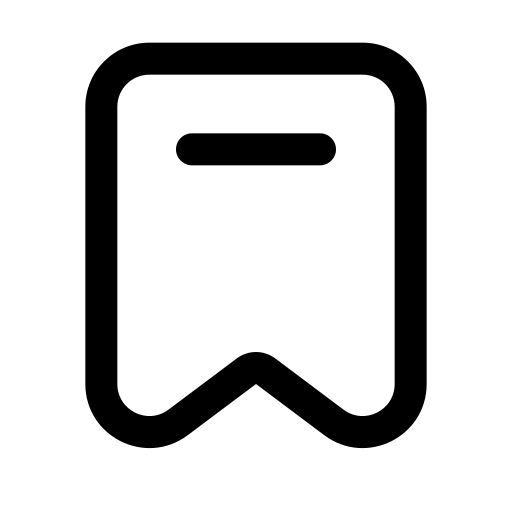
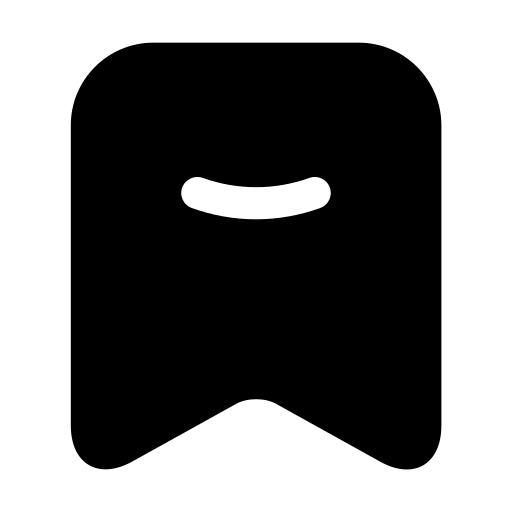
bug fix and minor changes

diff --git a/lib/presentation/widgets/news_card.dart b/lib/presentation/widgets/news_card.dart
@@ -1,7 +1,7 @@
 import 'package:flutter/material.dart';
 import 'package:flutter_screenutil/flutter_screenutil.dart';
-import 'package:pureweb_news/data/models/news_card_model.dart';
-import 'package:pureweb_news/presentation/constants/constants.dart';
+import 'package:purrweb_news/data/models/news_card_model.dart';
+import 'package:purrweb_news/presentation/constants/constants.dart';
 
 class NewsCard extends StatelessWidget {
   const NewsCard({
@@ -32,7 +32,7 @@ class NewsCard extends StatelessWidget {
               fontSize: 24.sp,
               color: currentFontColor,
               fontWeight: FontWeight.w600,
-              letterSpacing: -2,
+              letterSpacing: -1.6.r,
             ),
           ),
           SizedBox(height: 14.h),
@@ -42,7 +42,7 @@ class NewsCard extends StatelessWidget {
               fontSize: 18.sp,
               color: currentFontColor!.withOpacity(0.7),
               fontWeight: FontWeight.w300,
-              letterSpacing: -1,
+              letterSpacing: -1.r,
             ),
           ),
           SizedBox(height: 36.h),
@@ -55,7 +55,7 @@ class NewsCard extends StatelessWidget {
                   fontSize: 18.sp,
                   color: currentFontColor,
                   fontWeight: FontWeight.w500,
-                  letterSpacing: -1,
+                  letterSpacing: -1.r,
                 ),
               ),
               Text(
@@ -64,7 +64,7 @@ class NewsCard extends StatelessWidget {
                   fontSize: 16.sp,
                   color: currentFontColor,
                   fontWeight: FontWeight.w300,
-                  letterSpacing: -1,
+                  letterSpacing: -1.r,
                 ),
               ),
             ],

diff --git a/lib/presentation/widgets/home_menus.dart b/lib/presentation/widgets/home_menus.dart
@@ -1,6 +1,6 @@
 import 'package:flutter/material.dart';
 import 'package:flutter_screenutil/flutter_screenutil.dart';
-import 'package:pureweb_news/presentation/constants/constants.dart';
+import 'package:purrweb_news/presentation/constants/constants.dart';
 
 class HomeMenus extends StatelessWidget {
   const HomeMenus({
@@ -23,11 +23,12 @@ class HomeMenus extends StatelessWidget {
           borderRadius: BorderRadius.circular(30.w),
           color: isSelected ? Constants.kcSecondary : Colors.white12),
       child: isBookmark
-          ? Icon(
-              Icons.bookmark_rounded,
-              size: 28.sp,
-              color: isSelected ? Constants.kcTextTwo : Constants.kcTextOne,
-            )
+          // ? Icon(
+          //     Icons.bookmark_rounded,
+          //     size: 28.sp,
+          //     color: isSelected ? Constants.kcTextTwo : Constants.kcTextOne,
+          //   )
+          ? Image.asset('assets/images/bookmark.png', width: 28.r, color: Constants.kcTextOne,)
           : Center(
               child: Text(
                 name!,

diff --git a/lib/presentation/screens/home_page.dart b/lib/presentation/screens/home_page.dart
@@ -1,10 +1,10 @@
 import 'package:flutter/material.dart';
 import 'package:flutter_screenutil/flutter_screenutil.dart';
-import 'package:pureweb_news/data/models/news_card_model.dart';
-import 'package:pureweb_news/presentation/constants/constants.dart';
-import 'package:pureweb_news/presentation/widgets/custom_scroll_physics.dart';
-import 'package:pureweb_news/presentation/widgets/home_menus.dart';
-import 'package:pureweb_news/presentation/widgets/news_card.dart';
+import 'package:purrweb_news/data/models/news_card_model.dart';
+import 'package:purrweb_news/presentation/constants/constants.dart';
+import 'package:purrweb_news/presentation/widgets/custom_scroll_physics.dart';
+import 'package:purrweb_news/presentation/widgets/home_menus.dart';
+import 'package:purrweb_news/presentation/widgets/news_card.dart';
 
 class HomePage extends StatefulWidget {
   const HomePage({super.key});

diff --git a/lib/presentation/widgets/custom_scroll_physics.dart b/lib/presentation/widgets/custom_scroll_physics.dart
@@ -1,4 +1,5 @@
 import 'package:flutter/material.dart';
+import 'package:flutter_screenutil/flutter_screenutil.dart';
 
 class CustomScrollPhysics extends ScrollPhysics {
   const CustomScrollPhysics({super.parent});
@@ -15,10 +16,10 @@ class CustomScrollPhysics extends ScrollPhysics {
     final pixels = position.pixels;
 
     // Determine the target index based on the current scroll position
-    final targetIndex = (pixels / 340).round();
+    final targetIndex = ((pixels / 340).round()).h;
 
     // Calculate the target scroll position to snap the target index to the top
-    final targetPixels = targetIndex * 340.toDouble();
+    final targetPixels = (targetIndex * 340.toDouble()).h;
 
     // Return a ScrollSpringSimulation to simulate the snapping behavior
     return ScrollSpringSimulation(spring, pixels, targetPixels, velocity,

diff --git a/lib/main.dart b/lib/main.dart
@@ -1,8 +1,8 @@
 import 'package:flutter/material.dart';
 import 'package:flutter/services.dart';
 import 'package:flutter_screenutil/flutter_screenutil.dart';
-import 'package:pureweb_news/presentation/constants/constants.dart';
-import 'package:pureweb_news/presentation/routes.dart';
+import 'package:purrweb_news/presentation/constants/constants.dart';
+import 'package:purrweb_news/presentation/routes.dart';
 
 void main() {
   runApp(const MainApp());

diff --git a/lib/presentation/routes.dart b/lib/presentation/routes.dart
@@ -1,6 +1,6 @@
 import 'package:flutter/material.dart';
 import 'package:go_router/go_router.dart';
-import 'package:pureweb_news/presentation/screens/home_page.dart';
+import 'package:purrweb_news/presentation/screens/home_page.dart';
 
 GoRouter routes() {
   return GoRouter(

diff --git a/android/app/src/main/kotlin/com/example/pureweb_news/MainActivity.kt b/android/app/src/main/kotlin/com/example/pureweb_news/MainActivity.kt
@@ -1,6 +1,5 @@
-package com.example.pureweb_news
+package com.example.purrweb_news
 
 import io.flutter.embedding.android.FlutterActivity
 
-class MainActivity: FlutterActivity() {
-}
+class MainActivity: FlutterActivity()

diff --git a/README.md b/README.md
@@ -1,3 +1,3 @@
-# pureweb_news
+# purrweb_news
 
 A new Flutter project.
